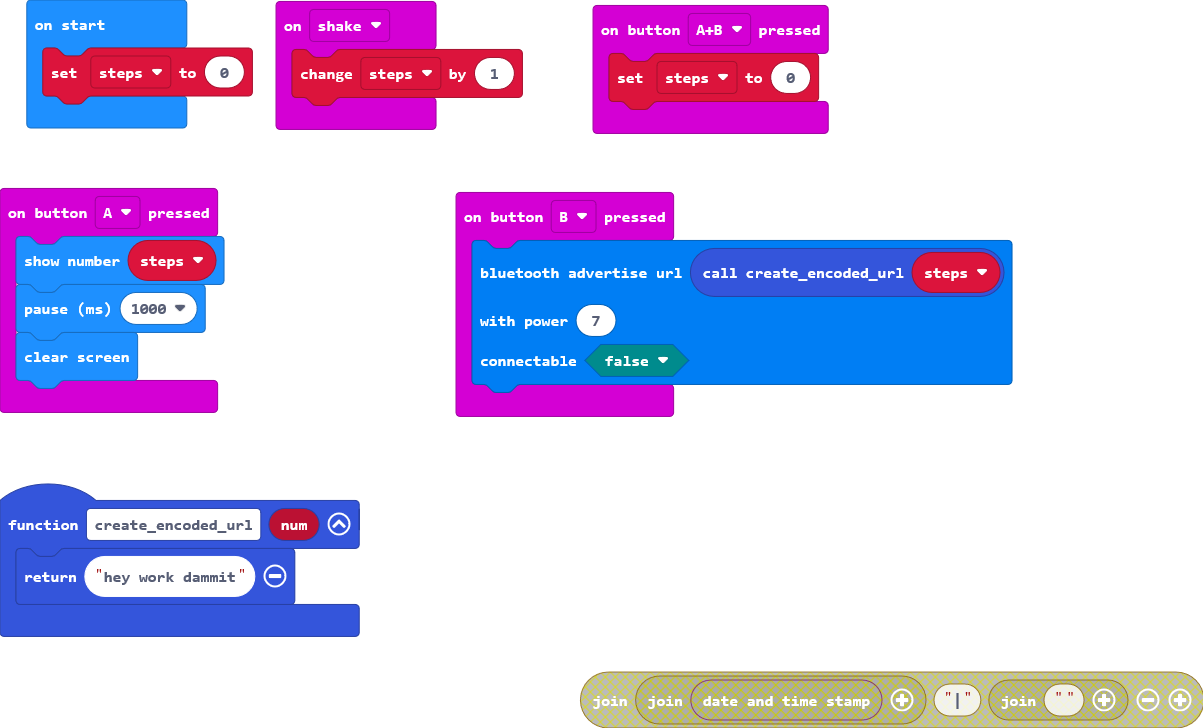
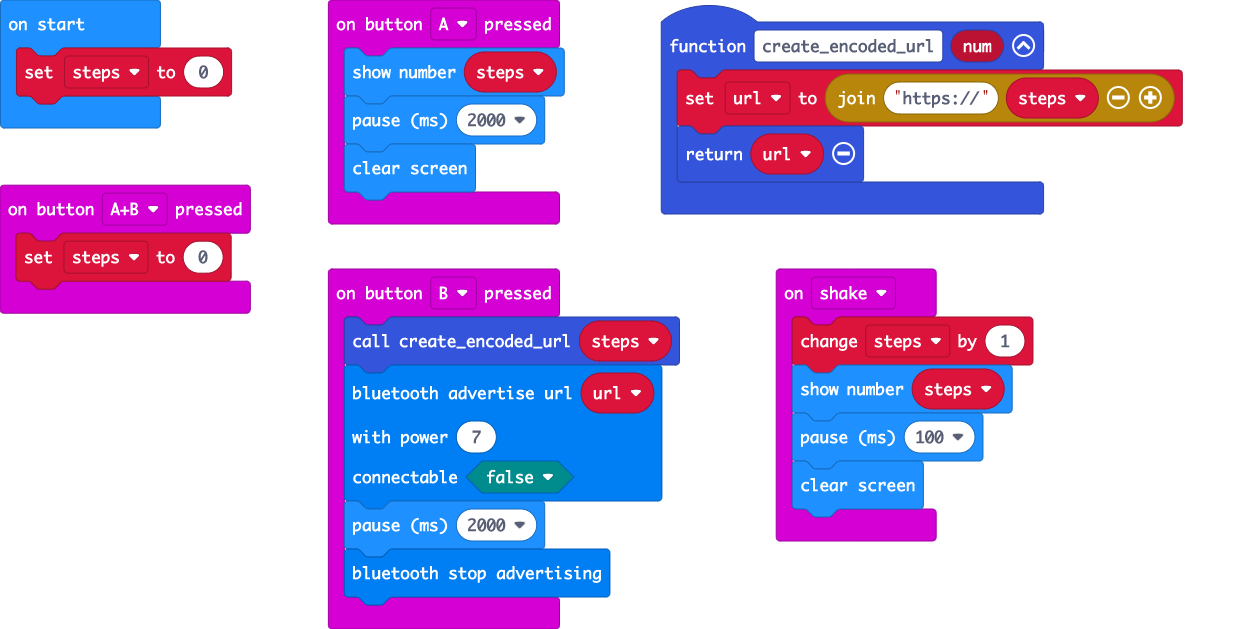
milestone 2

diff --git a/main.ts b/main.ts
@@ -1,22 +1,31 @@
-input.onButtonPressed(Button.A, function on_button_pressed_a() {
+input.onButtonPressed(Button.A, function () {
     basic.showNumber(steps)
-    basic.pause(1000)
+    basic.pause(2000)
     basic.clearScreen()
 })
-function create_encoded_url(num: number): string {
-    return "hey work dammit"
+function create_encoded_url (num: number) {
+    url = "https://" + steps
+    return url
 }
-
-input.onButtonPressed(Button.AB, function on_button_pressed_ab() {
-    
+input.onButtonPressed(Button.AB, function () {
     steps = 0
 })
-input.onButtonPressed(Button.B, function on_button_pressed_b() {
-    bluetooth.advertiseUrl(create_encoded_url(steps), 7, false)
+input.onButtonPressed(Button.B, function () {
+    create_encoded_url(steps)
+    bluetooth.advertiseUrl(
+    url,
+    7,
+    false
+    )
+    basic.pause(2000)
+    bluetooth.stopAdvertising()
 })
-input.onGesture(Gesture.Shake, function on_gesture_shake() {
-    
+input.onGesture(Gesture.Shake, function () {
     steps += 1
+    basic.showNumber(steps)
+    basic.pause(100)
+    basic.clearScreen()
 })
+let url = ""
 let steps = 0
 steps = 0

diff --git a/main.py b/main.py
@@ -1,11 +1,13 @@
 def on_button_pressed_a():
     basic.show_number(steps)
-    basic.pause(1000)
+    basic.pause(2000)
     basic.clear_screen()
 input.on_button_pressed(Button.A, on_button_pressed_a)
 
 def create_encoded_url(num: number):
-    return "hey work dammit"
+    global url
+    url = "https://" + timeanddate.date_time()
+    return url
 
 def on_button_pressed_ab():
     global steps
@@ -13,13 +15,20 @@ def on_button_pressed_ab():
 input.on_button_pressed(Button.AB, on_button_pressed_ab)
 
 def on_button_pressed_b():
-    bluetooth.advertise_url(create_encoded_url(steps), 7, False)
+    create_encoded_url(steps)
+    bluetooth.advertise_url(url, 7, False)
+    basic.pause(2000)
+    bluetooth.stop_advertising()
 input.on_button_pressed(Button.B, on_button_pressed_b)
 
 def on_gesture_shake():
     global steps
     steps += 1
+    basic.show_number(steps)
+    basic.pause(100)
+    basic.clear_screen()
 input.on_gesture(Gesture.SHAKE, on_gesture_shake)
 
+url = ""
 steps = 0
 steps = 0
